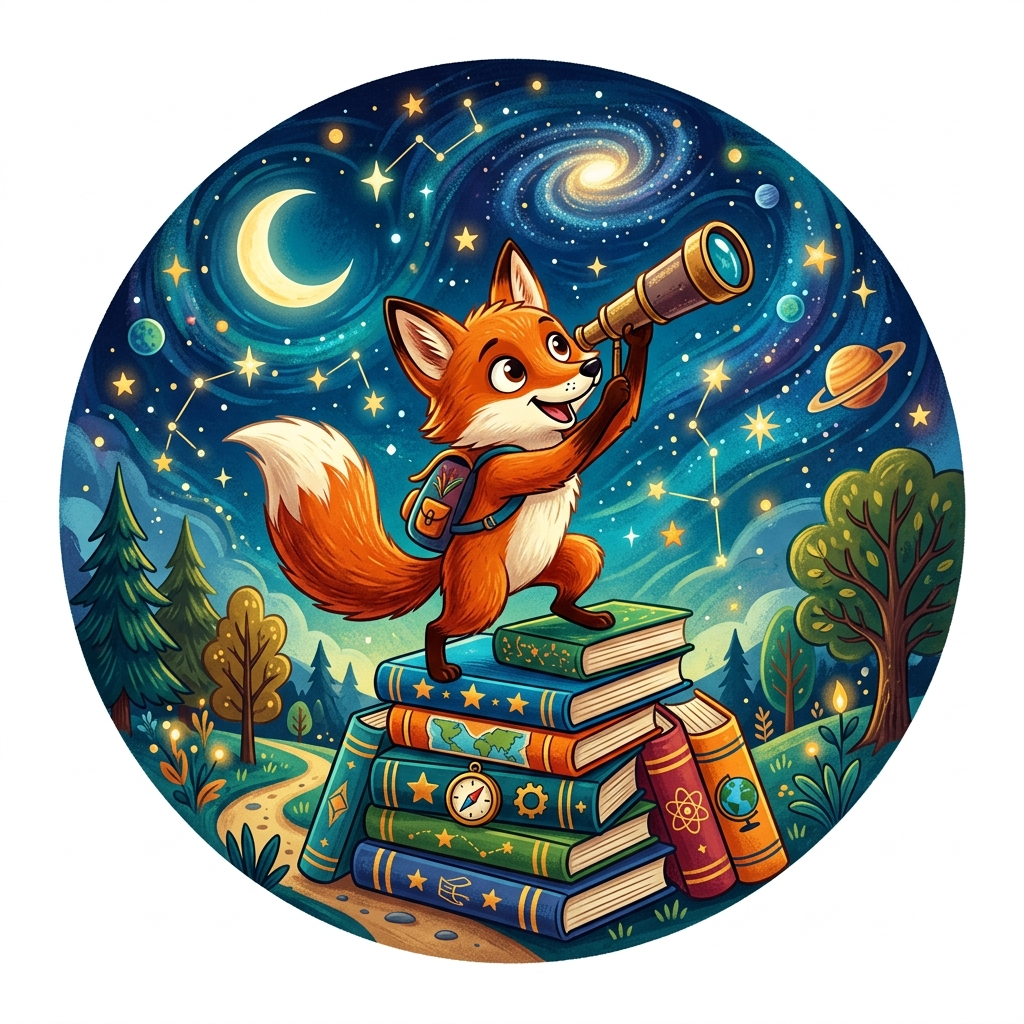
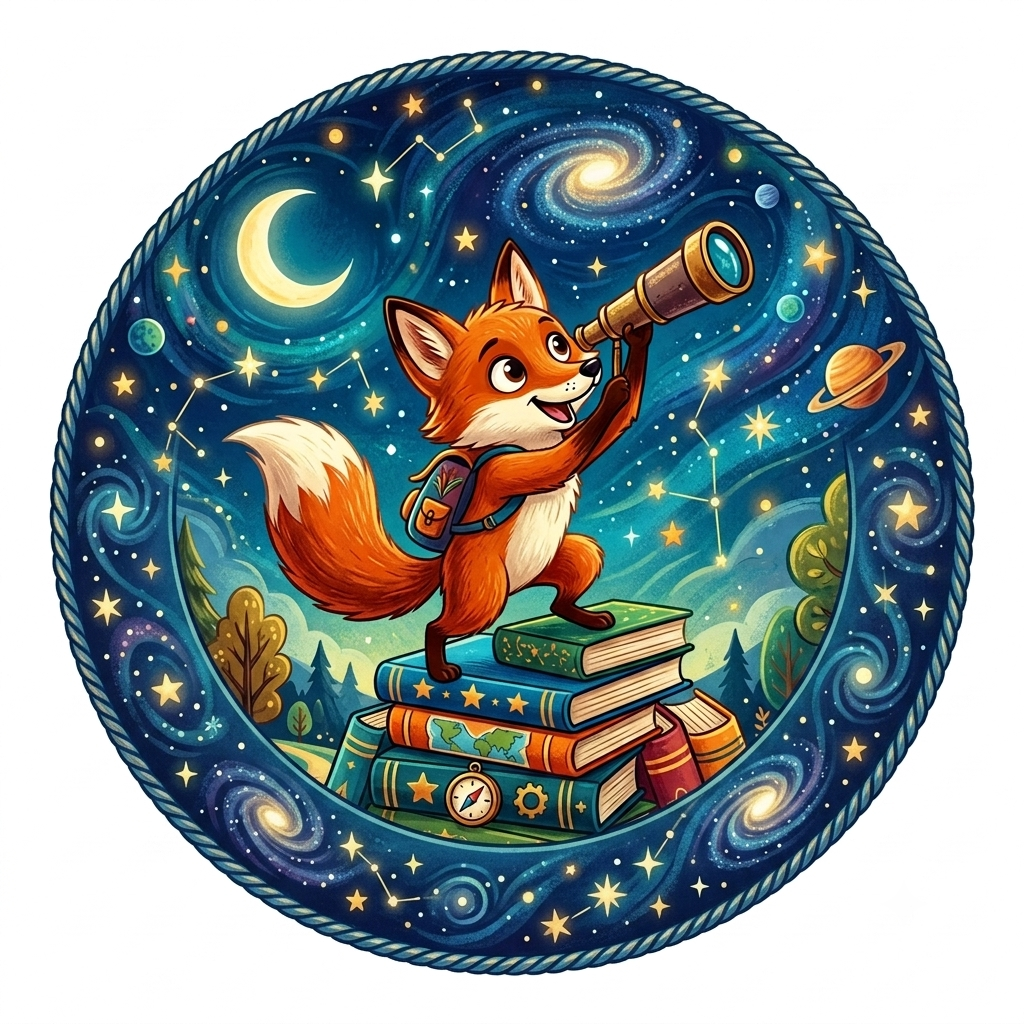
7-9 image edge centered + 0-3 edge centered

diff --git a/kidscorner/index.html b/kidscorner/index.html
@@ -192,7 +192,7 @@
                     <a href="books.html?age=0-3" class="category-card-circular">
                         <div class="category-circle">
                             <span class="category-icon">🍼</span>
-                            <img src="../assets/kc/images/categories/0-3.png" alt="0-3 Years" style="transform: scale(1.35);">
+                            <img src="../assets/kc/images/categories/0-3.png" alt="0-3 Years" style="transform: scale(1.38); object-fit: cover; object-position: center;">
                         </div>
                         <h3 data-i18n="kc.age.0-3">0-3</h3>
                     </a>
